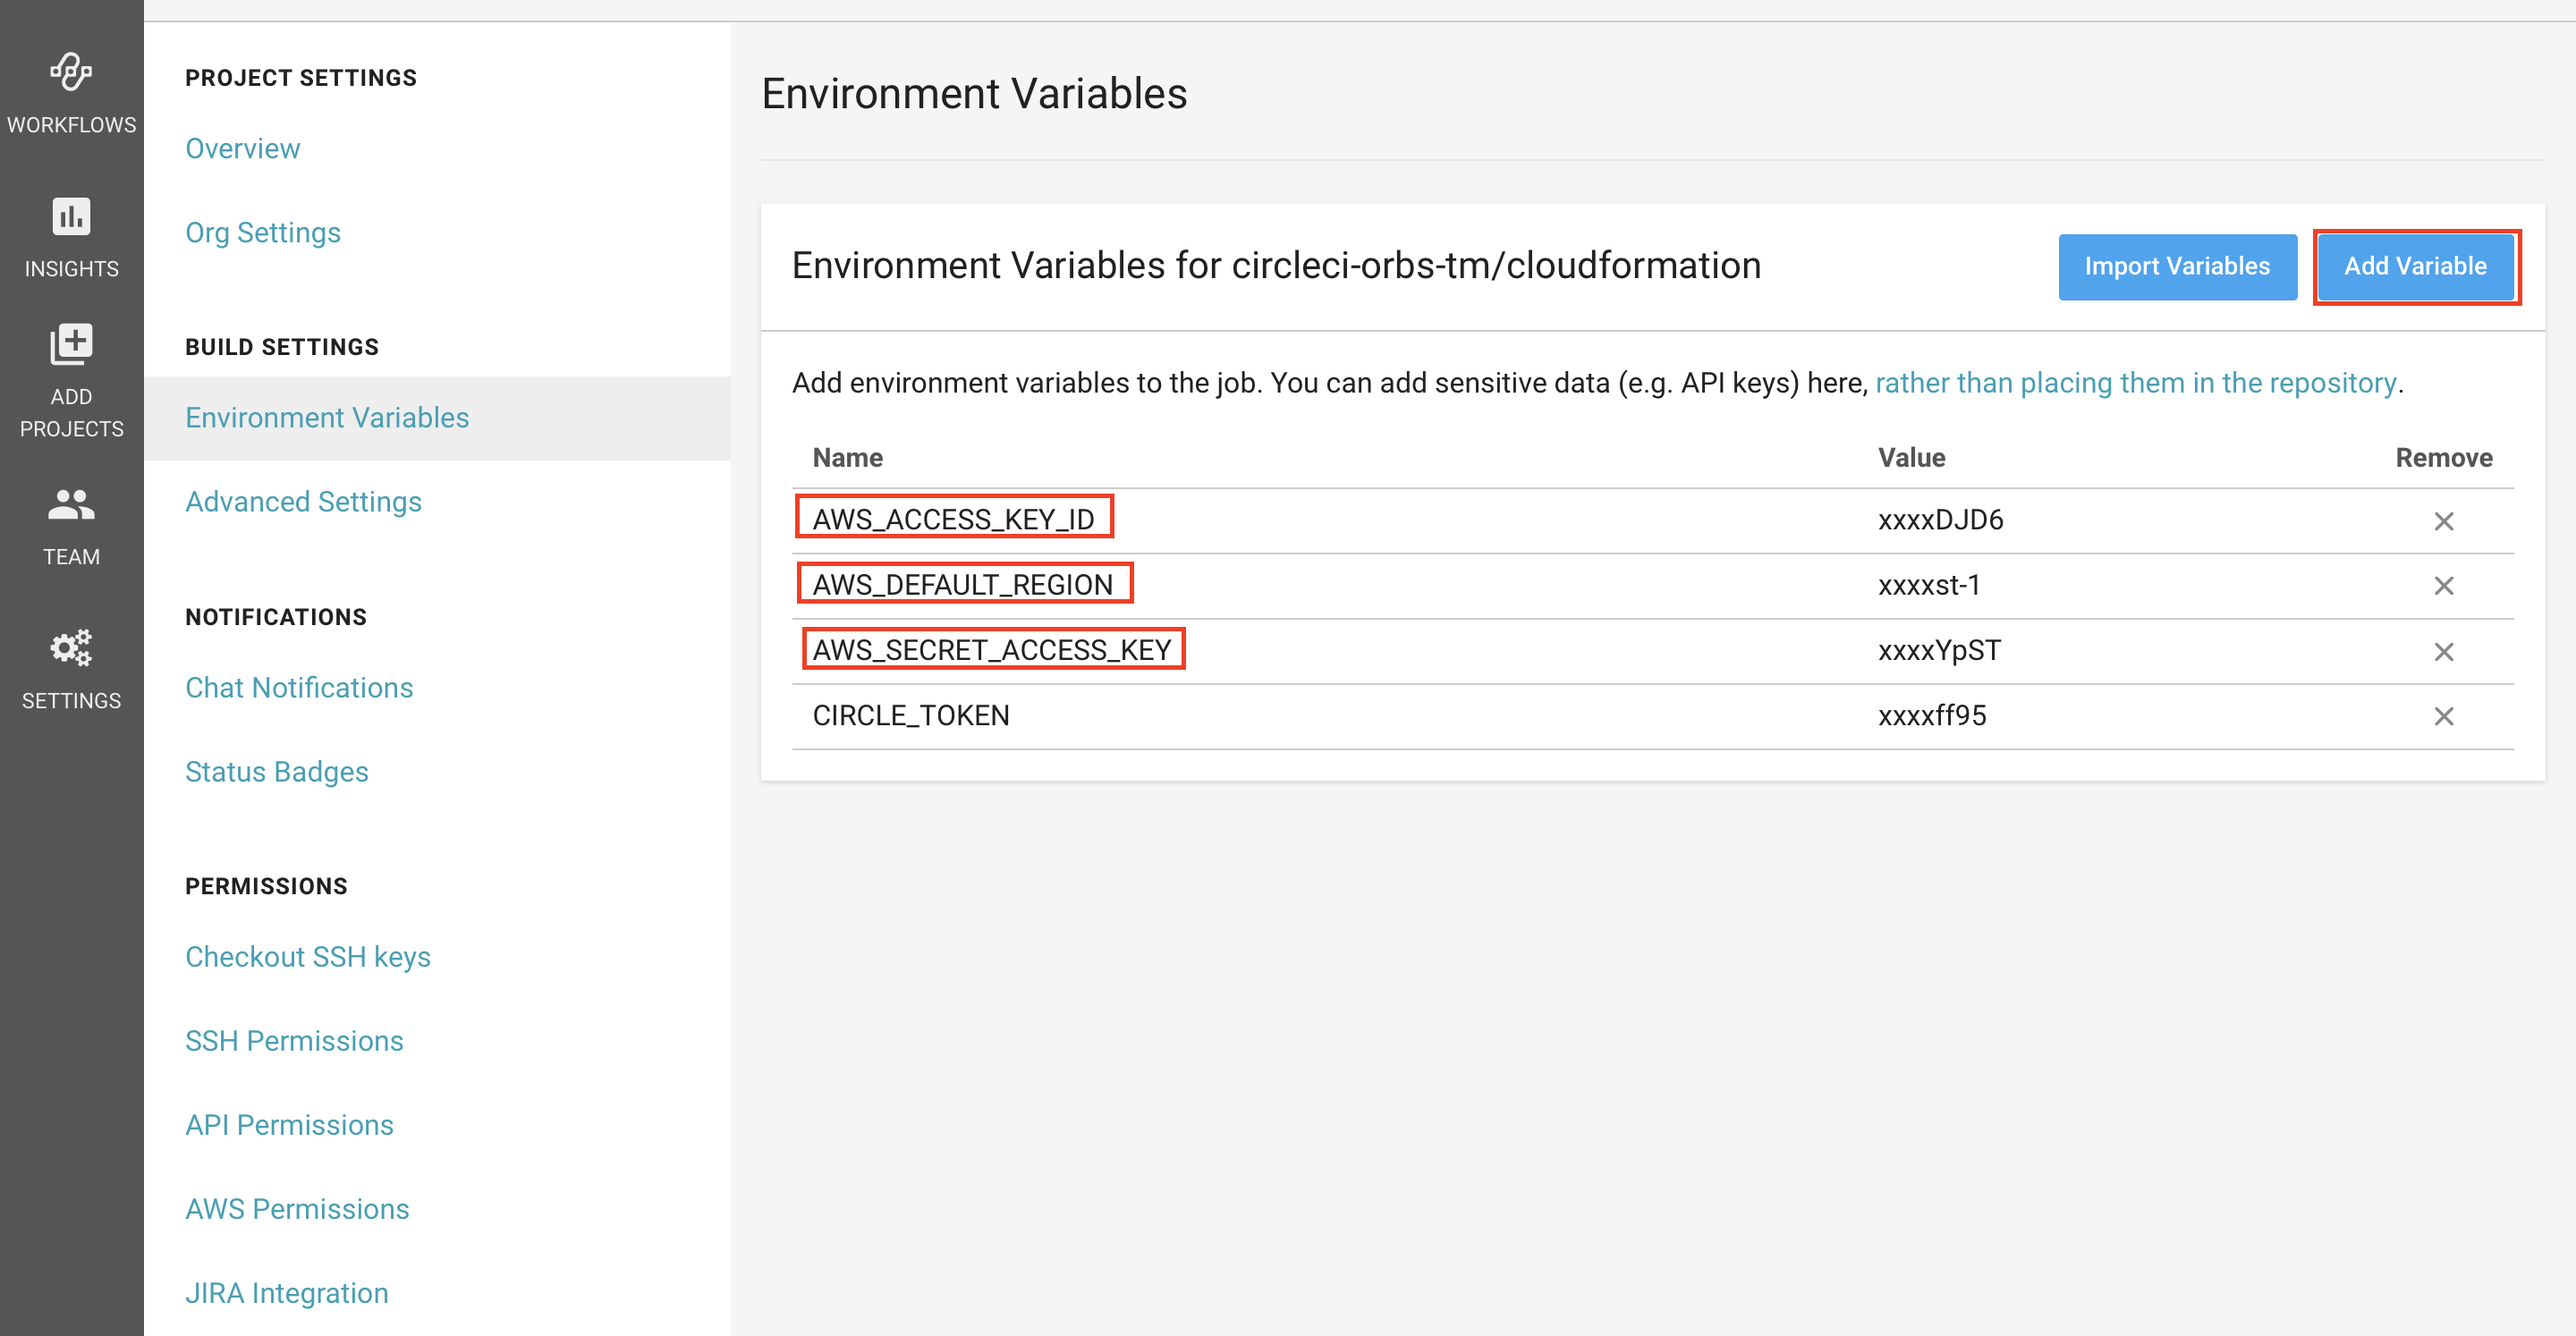
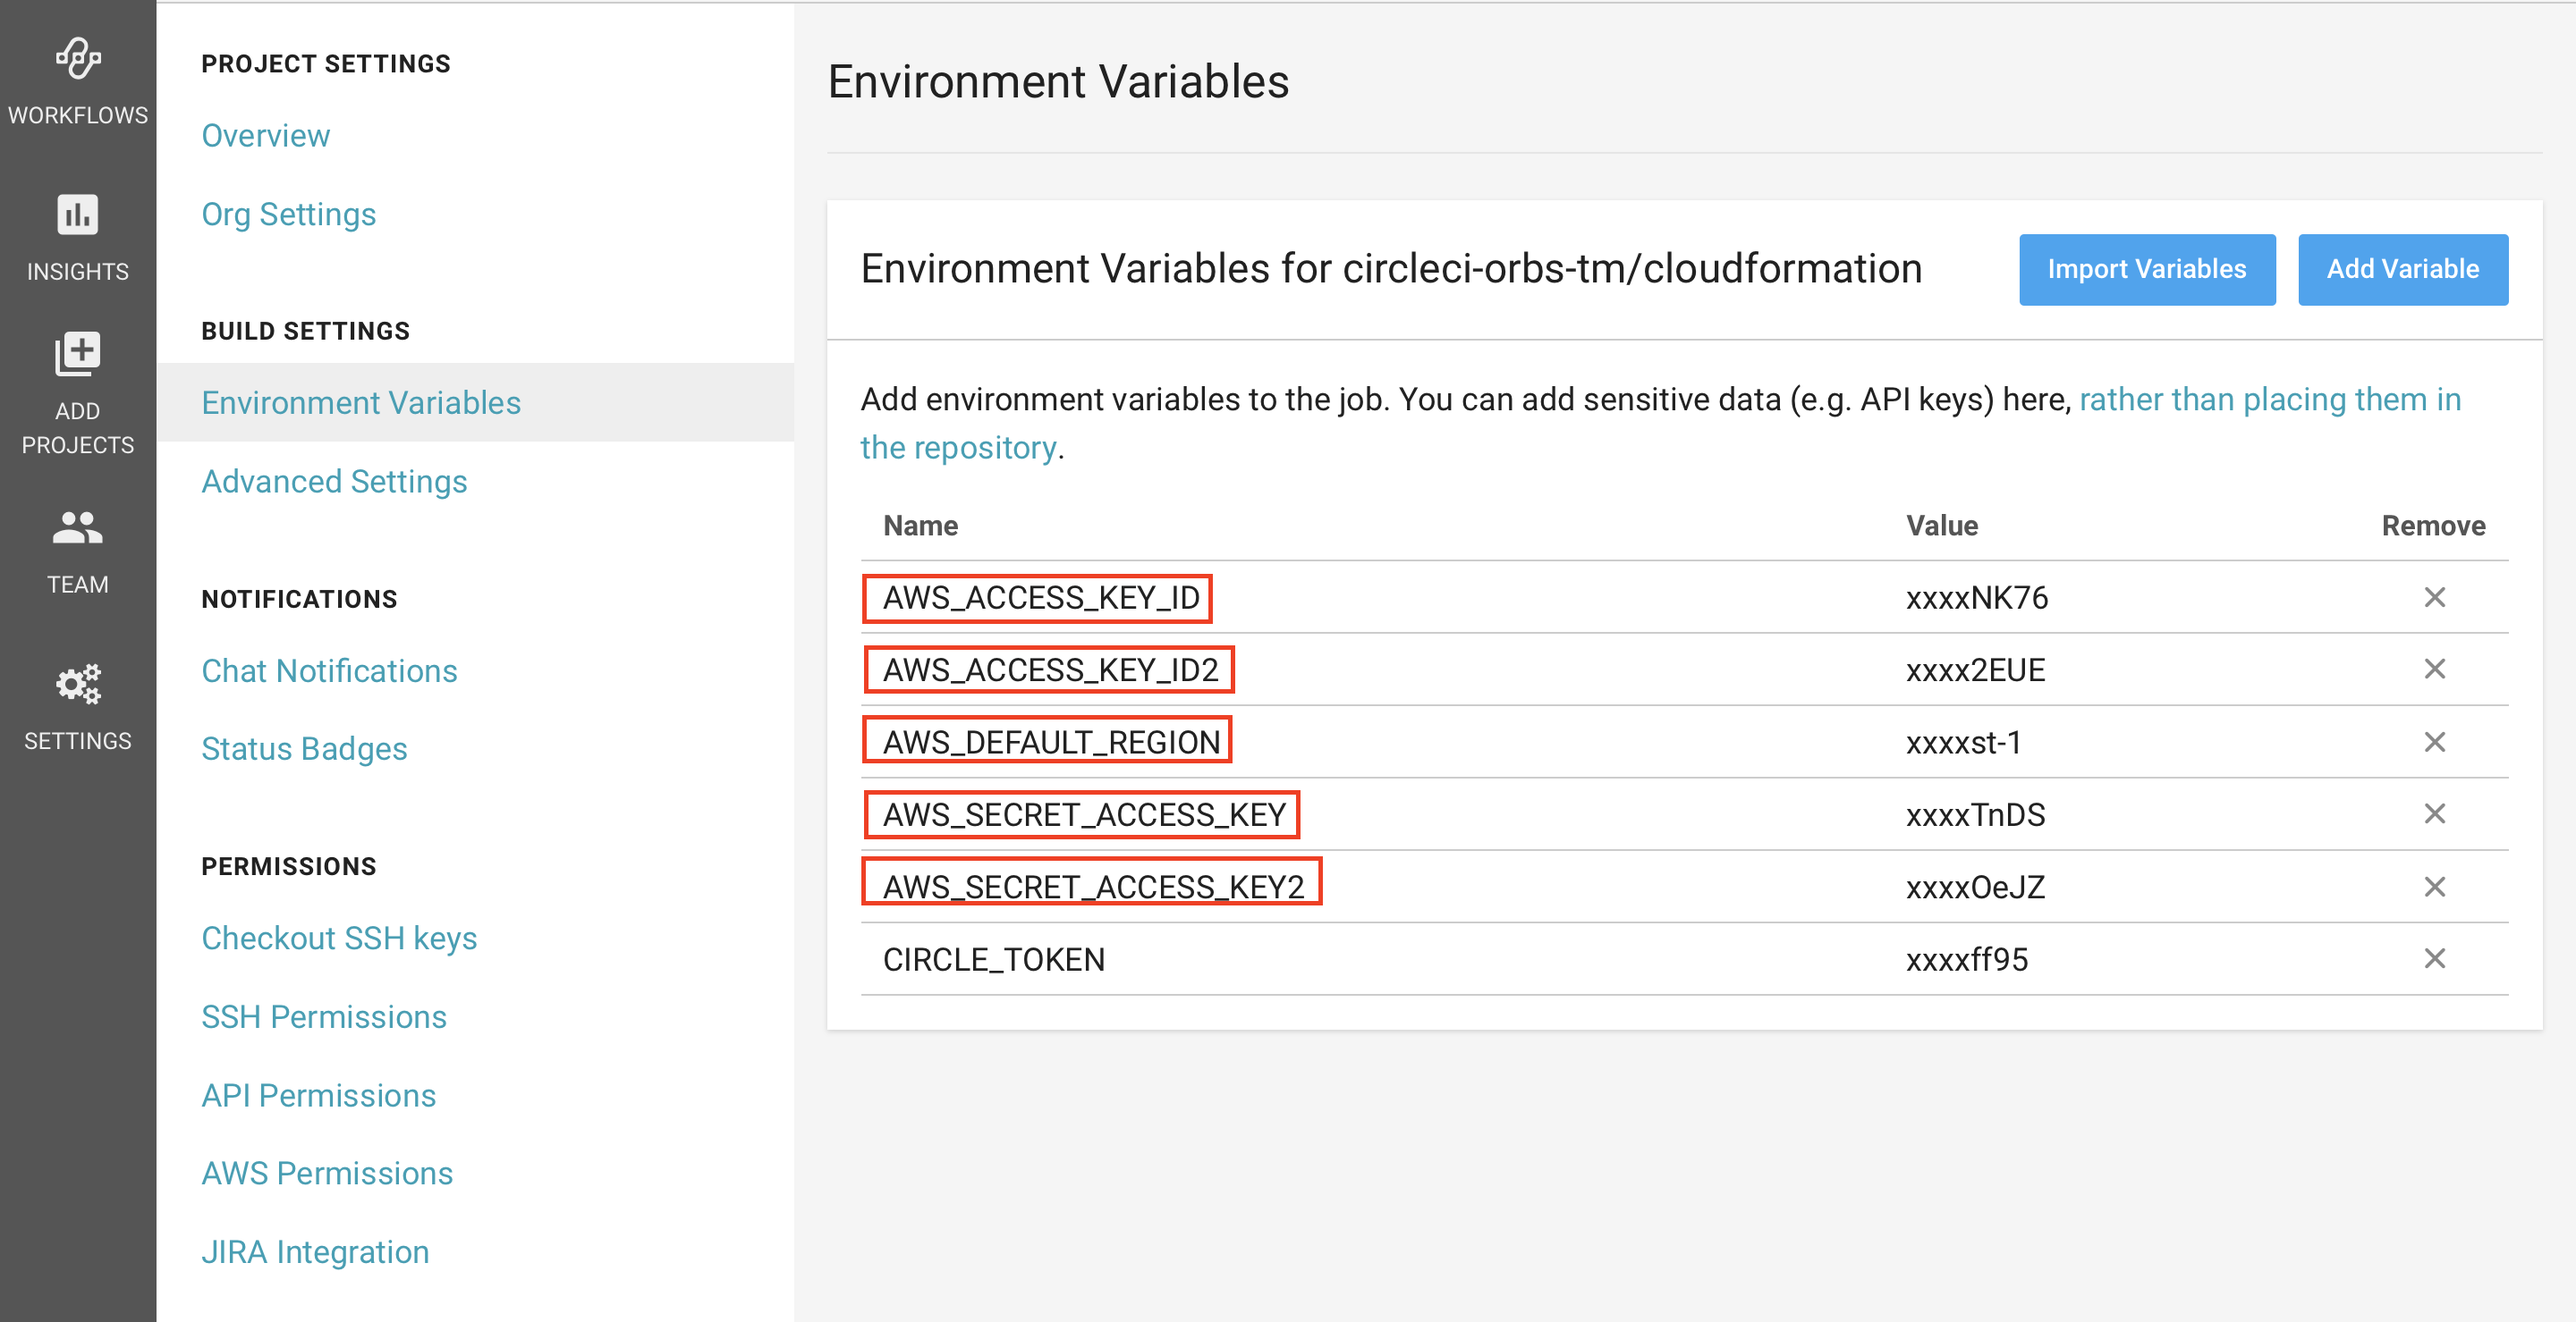
AWS Credentialsの変数名を指定できるように変更した refs #962

diff --git a/README.md b/README.md
@@ -14,10 +14,7 @@ Configure and install AWS CLI and munipulate aws cloudformaiton command in Circl
 
 Register Access Key, Secret Access Key and default region to CircleCI Environment Variables section.
 
-
 ![AWS Access Key Registration](/images/aws-access-keys.png)
-
-If multiple CloudFormation settings are required and need to register more than one AWS Access information, create another GitHub repository. **Names of AWS access information environment variable are fixed and can not be changed**.
 
 ### Parameters and commands
 
